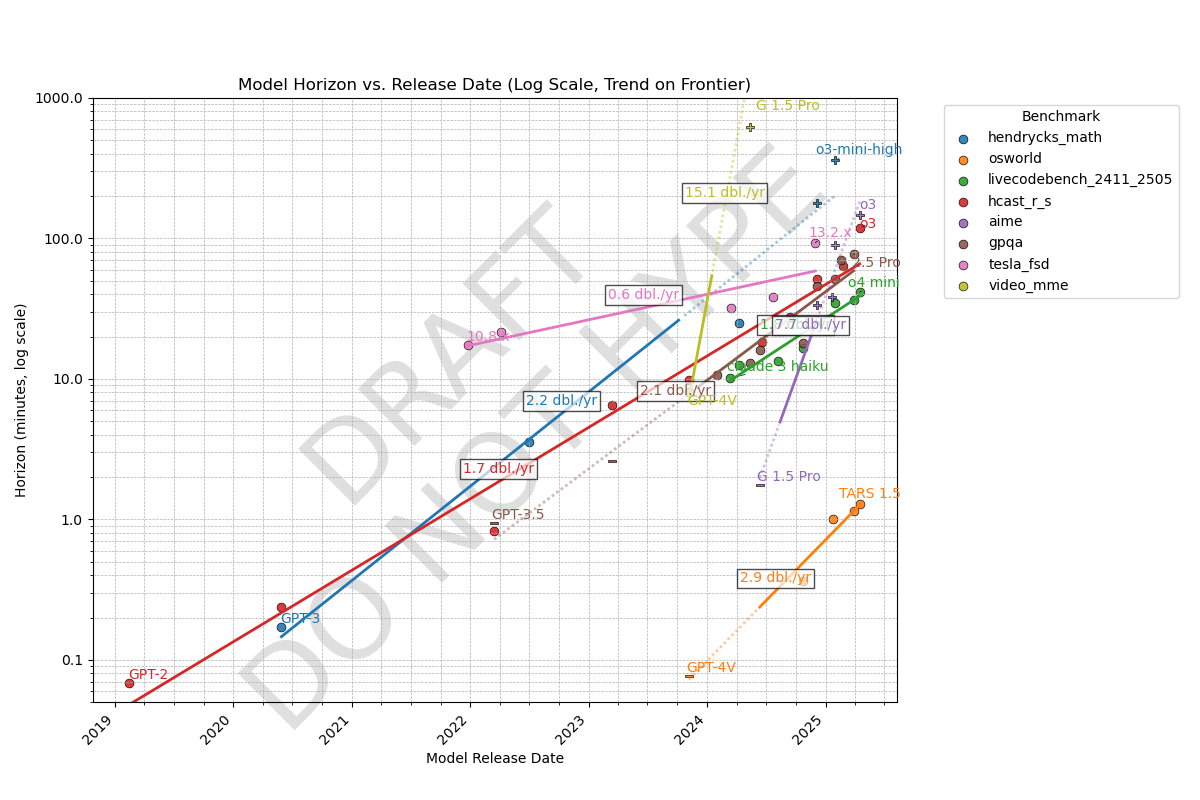
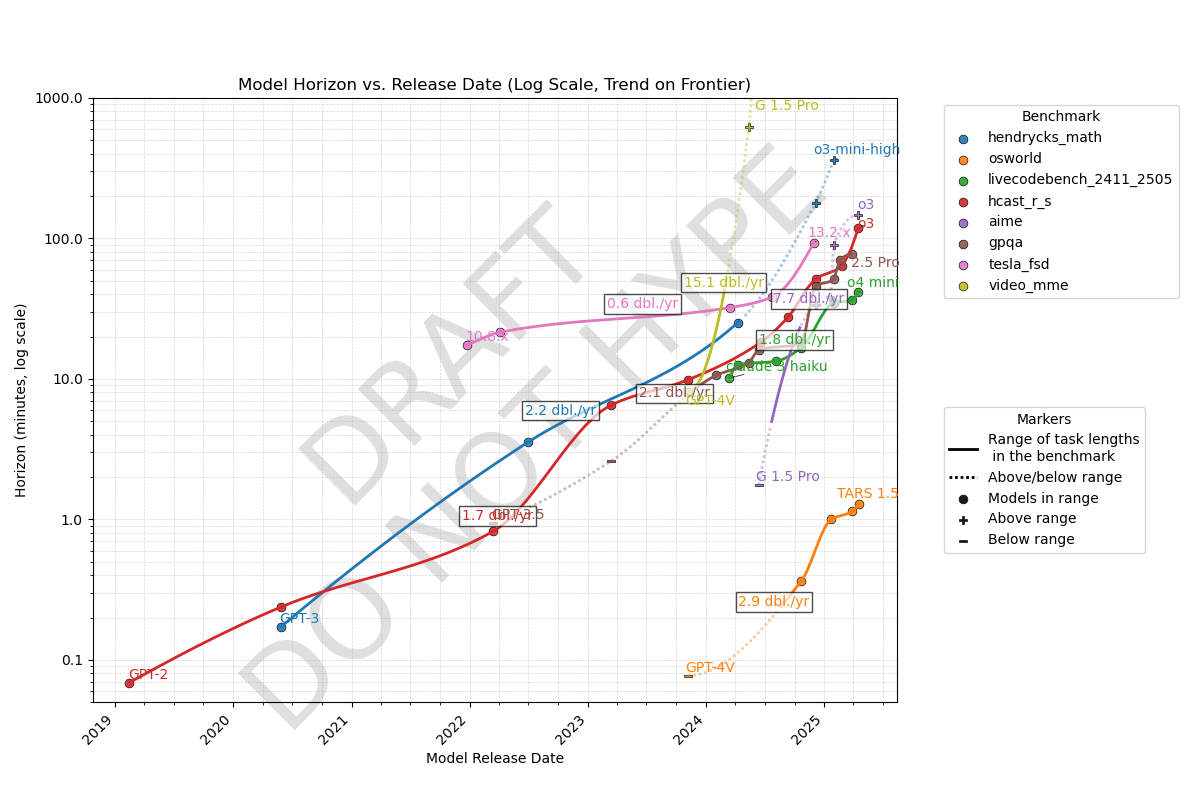
splines

diff --git a/plots.py b/plots.py
@@ -11,6 +11,7 @@ import matplotlib.patches as mpatches
 import pathlib
 import seaborn as sns
 import toml
+from scipy.interpolate import UnivariateSpline, PchipInterpolator
 
 import wrangle
 
@@ -202,20 +203,23 @@ def plot_lines_over_time(df, output_file,
         scatter_points(df_above, f"_{bench}_above", marker='P', alpha=0.9, s=30, edgecolor='k', linewidth=0.5)
         scatter_points(df_below, f"_{bench}_below", marker='$-$', alpha=0.9, s=30, edgecolor='k', linewidth=0.5)
 
-        # Fit and plot regression line using only frontier points
-        if len(frontier_data) >= 2:
-            # Perform linear regression on numerical date vs log horizon
-            X = frontier_data['release_date_num'].values
-            Y_log = frontier_data['log2_horizon_minutes'].values
+        densely_dotted = (0, (1, 1))
+        # Fit and plot smoothing spline using only frontier points
+        if len(frontier_data) >= 3:  # Need at least 3 points for spline
+            # Sort frontier data by release date for spline fitting
+            frontier_sorted = frontier_data.sort_values('release_date_num')
+            X = frontier_sorted['release_date_num'].values
+            Y_log = frontier_sorted['log2_horizon_minutes'].values
 
+            # Keep linear regression for doubling rate calculation
             coeffs = np.polyfit(X, Y_log, 1)
-            poly = np.poly1d(coeffs)
+            doubling_rate = coeffs[0] * 365  # Convert from per day to per year
+
+            # Use monotonic interpolation for display to prevent negative derivatives
+            spline = PchipInterpolator(X, Y_log)
 
             x_line_num = np.linspace(X.min(), X.max(), 100)
-            y_line_log = poly(x_line_num)
-
-            # Calculate doubling rate (slope in doublings per year)
-            doubling_rate = coeffs[0] * 365  # Convert from per day to per year
+            y_line_log = spline(x_line_num)
             
             # Add text with doubling rate near the middle of the line
             mid_point_idx = len(x_line_num) // 2
@@ -235,9 +239,7 @@ def plot_lines_over_time(df, output_file,
             mask_above = y_line > p98
             mask_below = y_line < p2
 
-
             # Plot each segment with appropriate style
-            densely_dotted = (0, (1, 1))
             ax.plot(x_line_date[mask_within], y_line[mask_within], color=color, linestyle='-', linewidth=2, label=f"_{bench}_trend")
             ax.plot(x_line_date[mask_above], y_line[mask_above], color=color, alpha=0.4, linestyle=densely_dotted, linewidth=2)
             ax.plot(x_line_date[mask_below], y_line[mask_below], color=color, alpha=0.4, linestyle=densely_dotted, linewidth=2)
@@ -270,7 +272,7 @@ def plot_lines_over_time(df, output_file,
     ax.set_xlabel("Model Release Date")
     ax.set_ylabel("Horizon (minutes, log scale)")
     ax.set_title("Model Horizon vs. Release Date (Log Scale, Trend on Frontier)")
-    ax.grid(True, which="both", ls="--", linewidth=0.5)
+    ax.grid(True, which="both", ls="--", linewidth=0.5, alpha=0.5)
 
     # Format x-axis dates
     ax.xaxis.set_major_locator(mdates.YearLocator())
@@ -285,7 +287,20 @@ def plot_lines_over_time(df, output_file,
 
     # Create a legend
     handles, labels = ax.get_legend_handles_labels()
-    ax.legend(handles=handles, labels=labels, title='Benchmark', bbox_to_anchor=(1.05, 1), loc='upper left')
+
+
+    handle1, = ax.plot([], [], color='black', linestyle='-', linewidth=2, label="Range of task lengths\n in the benchmark")
+    handle2, = ax.plot([], [], color='black', linestyle=densely_dotted, linewidth=2, label="Above/below range")
+    handle3 = ax.scatter([], [], color='black', marker='o', alpha=0.9, s=40, edgecolor='k', linewidth=0.5, label="Models in range")
+    handle4 = ax.scatter([], [], color='black', marker='P', alpha=0.9, s=30, edgecolor='k', linewidth=0.5, label="Above range")
+    handle5 = ax.scatter([], [], color='black', marker='$-$', alpha=0.9, s=30, edgecolor='k', linewidth=0.5, label="Below range")
+    trend_legend = ax.legend(handles=[handle1, handle2, handle3, handle4, handle5], title="Markers", bbox_to_anchor=(1.05, 0.5), loc='upper left')
+    # ax.add_artist(trend_legend)
+
+    bench_legend = ax.legend(handles=handles, labels=labels, title='Benchmark', bbox_to_anchor=(1.05, 1), loc='upper left')
+    ax.add_artist(trend_legend)
+
+
 
     add_watermark(ax)
 
